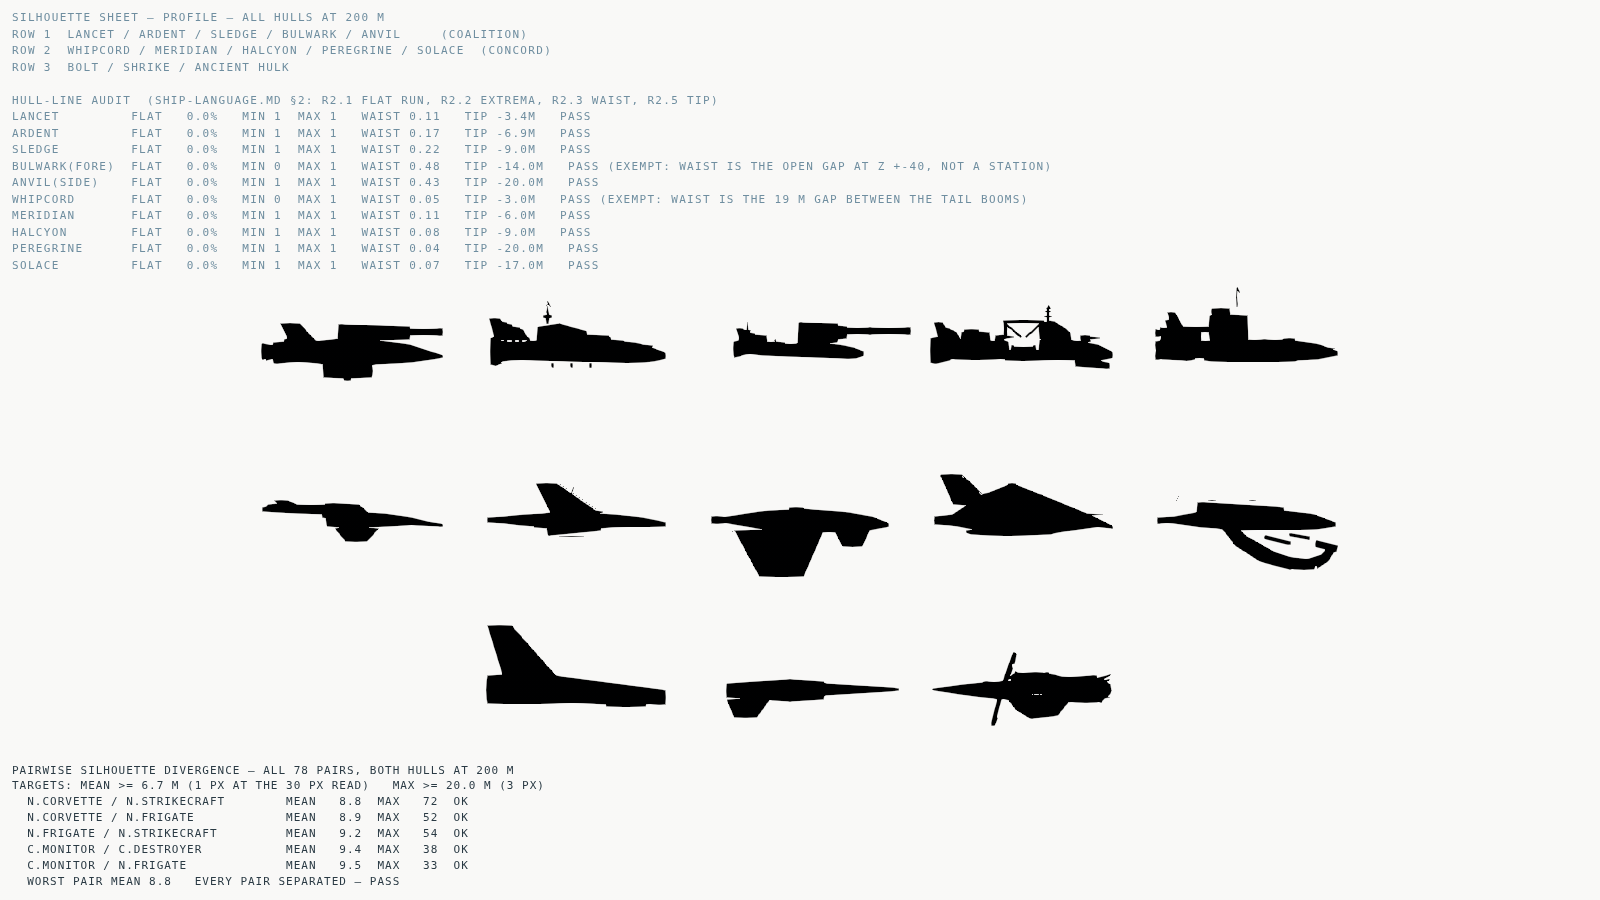
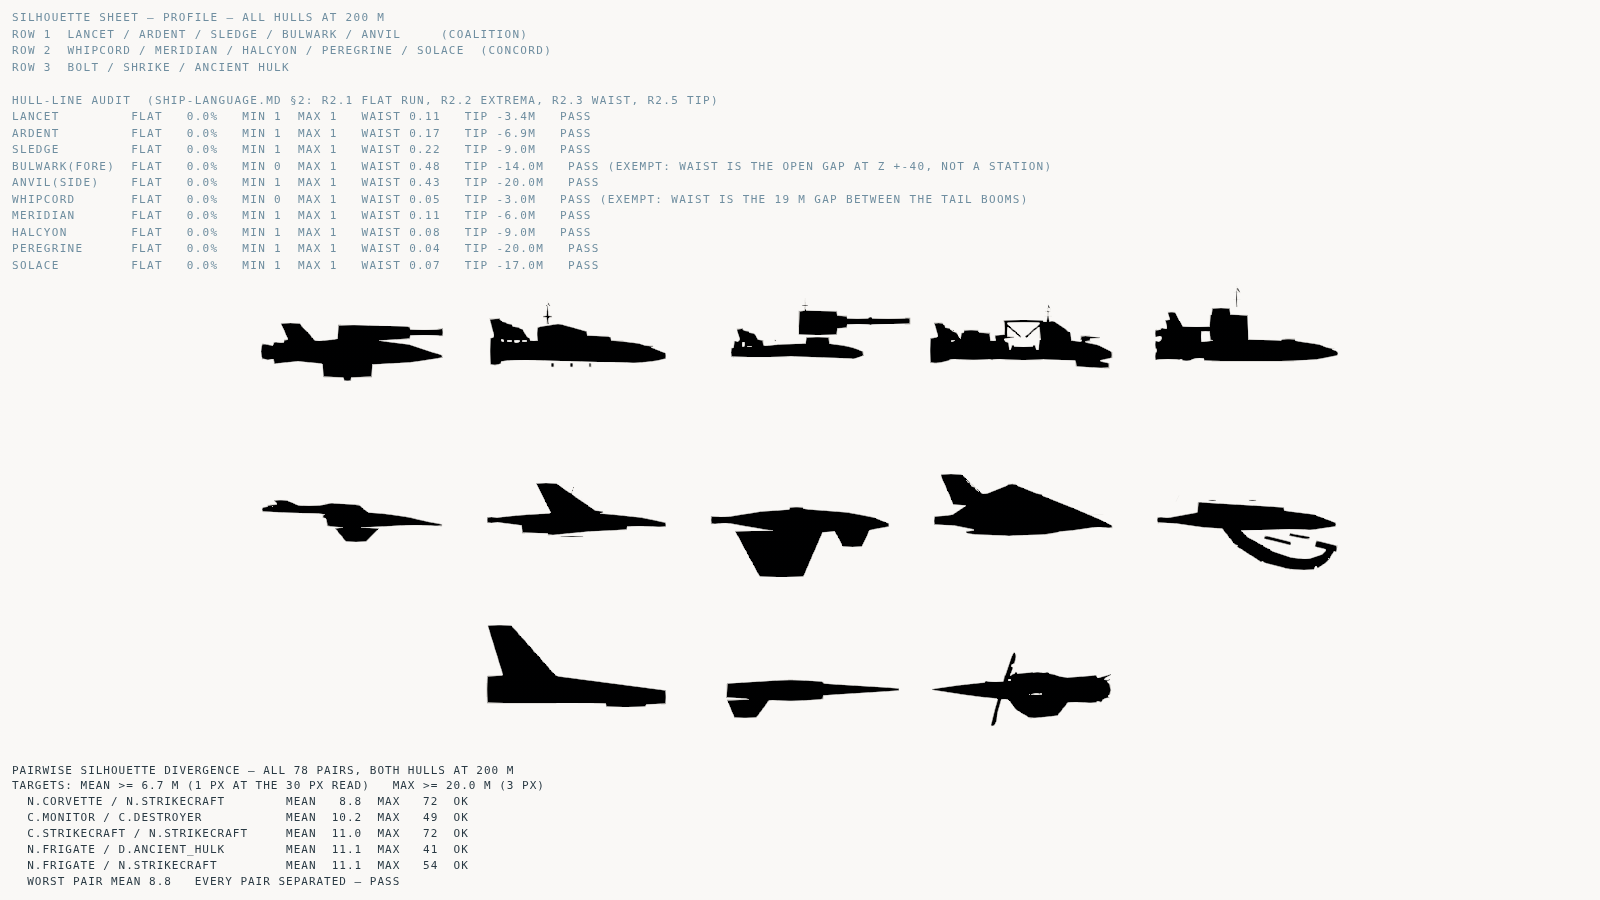
In-flight art-direction work
Claude-Session: https://claude.ai/code/session_015jvdszNLHKCdWey4BV1AZL

diff --git a/src/art/geometry/cruiser.js b/src/art/geometry/cruiser.js
@@ -525,11 +525,17 @@ const SURFACE = {
    *
    * `hullDark` draws its albedo from palette.js#player.baseDark (0x2b2722, the
    * near-black of the three), and it now carries LARGE AREAS rather than crevices:
-   * the two 640 m flank armour belts below the chine, the stern block's armour
-   * casing, the drive pylons and pods, and the bay's outboard rail fairings. Every
-   * one of those boundaries is a real geometric edge — a plate lip, the chine, the
-   * step at the stern — so the value change never stops in the middle of a face,
-   * which §4 says is the diagnostic for a decal on styrene.
+   * the two 640 m flank armour belts, the stern block's armour casing, the drive
+   * pylons, the bay's outboard rail fairings and the tow-track beams.
+   *
+   * EVERY ONE OF THOSE IS BELOW THE CHINE, and that is a rule rather than an
+   * accident. Deck plane above the chine in bone, flank plane below it in
+   * near-black, and the chine itself is where they meet — so the value boundary is
+   * a real geometric edge with a shadow at it, not a line that stops in the middle
+   * of a face, which §4 names as the diagnostic for a decal on styrene. The raised
+   * dorsal armour spine is deliberately NOT dark for the same reason: it sits above
+   * the chine, and putting the second value on both sides of an edge is the one
+   * thing that stops the edge reading as the boundary between them.
    *
    * IT COSTS ONE DRAW CALL PER DAMAGE GROUP, and the offset is stated in the build:
    * the engine group's `plating` bucket is gone, its contents moved here, so LOD0 is
@@ -663,7 +669,7 @@ export function hullParts({ rng, lod = 0 }) {
     }
     // Raised armour spine: the step between deck 1 and deck 2, overhanging the waist
     // to port and starboard exactly as it does at LOD0.
-    B.add('core', 'dark', G.panelledSlab({ width: 216, height: 32, depth: 560, detail: D }),
+    B.add('core', 'hull', G.panelledSlab({ width: 216, height: 32, depth: 560, detail: D }),
       { pos: [0, 90, -252] });
 
     // FEATURE 1 — THE BAY, AS AN ACTUAL HOLE, and it is the last thing that may ever
@@ -800,7 +806,7 @@ export function hullParts({ rng, lod = 0 }) {
   // Both lofts keep ALL their stations at LOD1. They cost 64 and 80 triangles between
   // them and they are two of the four masses; thinning them was pure silhouette loss
   // for no measurable saving.
-  B.add('core', 'dark', G.loft(toStations(SPINE_STATIONS)));
+  B.add('core', 'hull', G.loft(toStations(SPINE_STATIONS)));
 
   // THE ISLAND, AS THREE INSET DECKS WITH HARD HORIZONTAL STEPS BETWEEN THEM.
   //

diff --git a/src/ui/codex.js b/src/ui/codex.js
@@ -33,7 +33,12 @@ import { MEV } from '../sim/meta/events.js';
 import { C, F, TRACK, factionInk } from './theme.js';
 import { Panel, PAD, tableHead, rowBack } from './panels.js';
 
-const LIST_W = 246;
+/**
+ * The index column. Wide enough for the longest module name in the registry —
+ * `COALITION BREACHING PROW` — because an index that abbreviates the thing you are
+ * looking for is an index you have to read twice. The card beside it still gets 470 px.
+ */
+const LIST_W = 296;
 const ROW_H = 20;
 const TABS = ['module', 'ship', 'item', 'material'];
 const TAB_LABEL = { module: 'MODULES', ship: 'HULLS', item: 'DEVICES', material: 'MATERIALS' };
@@ -47,7 +52,7 @@ export class CodexPanel extends Panel {
       id: 'codex',
       title: 'CODEX',
       hint: 'C',
-      w: 780,
+      w: 820,
       h: 470,
       maxH: 470,
     });

diff --git a/src/art/geometry/modules/broadside.js b/src/art/geometry/modules/broadside.js
@@ -7,7 +7,10 @@
  * starboard copy of anything here and there must never be one: a hand-authored
  * mirror is a second thing to keep in sync and it will drift.
  *
- * Mount is at [-156, 46, 130] and the seating adds a 7 m service gap outboard, so
+ * Mount is at [-158, 46, 60] - moved from [-156, 46, 130] so the sponson shelf sits
+ * over the salvage cradle's second transverse frame instead of bridging the 76 m of
+ * clear background between hull flank and bay rail - and the seating adds a 7 m
+ * service gap outboard, so
  * module local x = -100 is world x = -263. The hull's own widest point is x = 198
  * over the outrigger drive pods, which means LOCAL x = -35 IS WHERE THE SHIP ENDS.
  * A broadside module that stops at local -60 has added twenty-five metres to a

diff --git a/src/art/geometry/hardpoints.js b/src/art/geometry/hardpoints.js
@@ -121,7 +121,7 @@ import { mirrorGeometryX } from './greeble.js';
  * origin at the mount point, and moving an anchor simply moves the module with it.
  * What changed is that the six anchors now sit on six real, structurally distinct
  * parts of the ship, and that PORT AND STARBOARD ARE NO LONGER MIRRORS: the port
- * sponson owns z +60..+200 and the starboard one z -60..+80, so a fully fitted hull
+ * sponson owns z +18..+102 and the starboard one z -152..-68, so a fully fitted hull
  * is never bilaterally symmetric. That is a deliberate salvager read, not an
  * oversight, and the mirroring machinery in this file handles it unchanged.
  */
